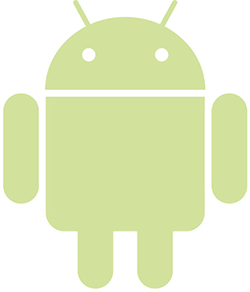
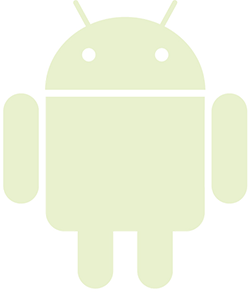
Updated link and background.

diff --git a/android/index.html b/android/index.html
@@ -31,7 +31,7 @@
 	You've reached the Android page of my personal web site.<br/>
 	<br/>
 	A Java developer with 12+ years experience, I started exploring the Android platform as soon as it came out in 2008.<br/>
-	I now have been a professional Android developer for 4 years, at <a href="http://www.voxmobili.com/" target="_blank">Vox Mobili</a>, then at <a href="http://plizy.com/" target="_blank">Plizy</a> and now as a freelance developer, currently working for an undisclosed customer.<br/>
+	I now have been a professional Android developer for 4 years, at <a href="http://www.voxmobili.com/" target="_blank">Vox Mobili</a>, then at <a href="http://www.droid-life.com/2012/02/23/plizy-released-for-android-tablets-videos-from-all-over-the-web-in-one-convenient-location/" target="_blank">Plizy</a> and now as a freelance developer, currently working for an undisclosed customer.<br/>
 	In 2010 <b>Android App Review Source</b> asked me to answer a few questions for an interview - see it <a href="http://www.androidappreviewsource.com/2010/01/04/bod-developer-of-worldtour/" target="_blank">here</a> to learn a bit about myself.<br/>
 	<br/>
 	In addition to my professional work I have published a few apps on the Android Play Store, that I have developed on my free time.
